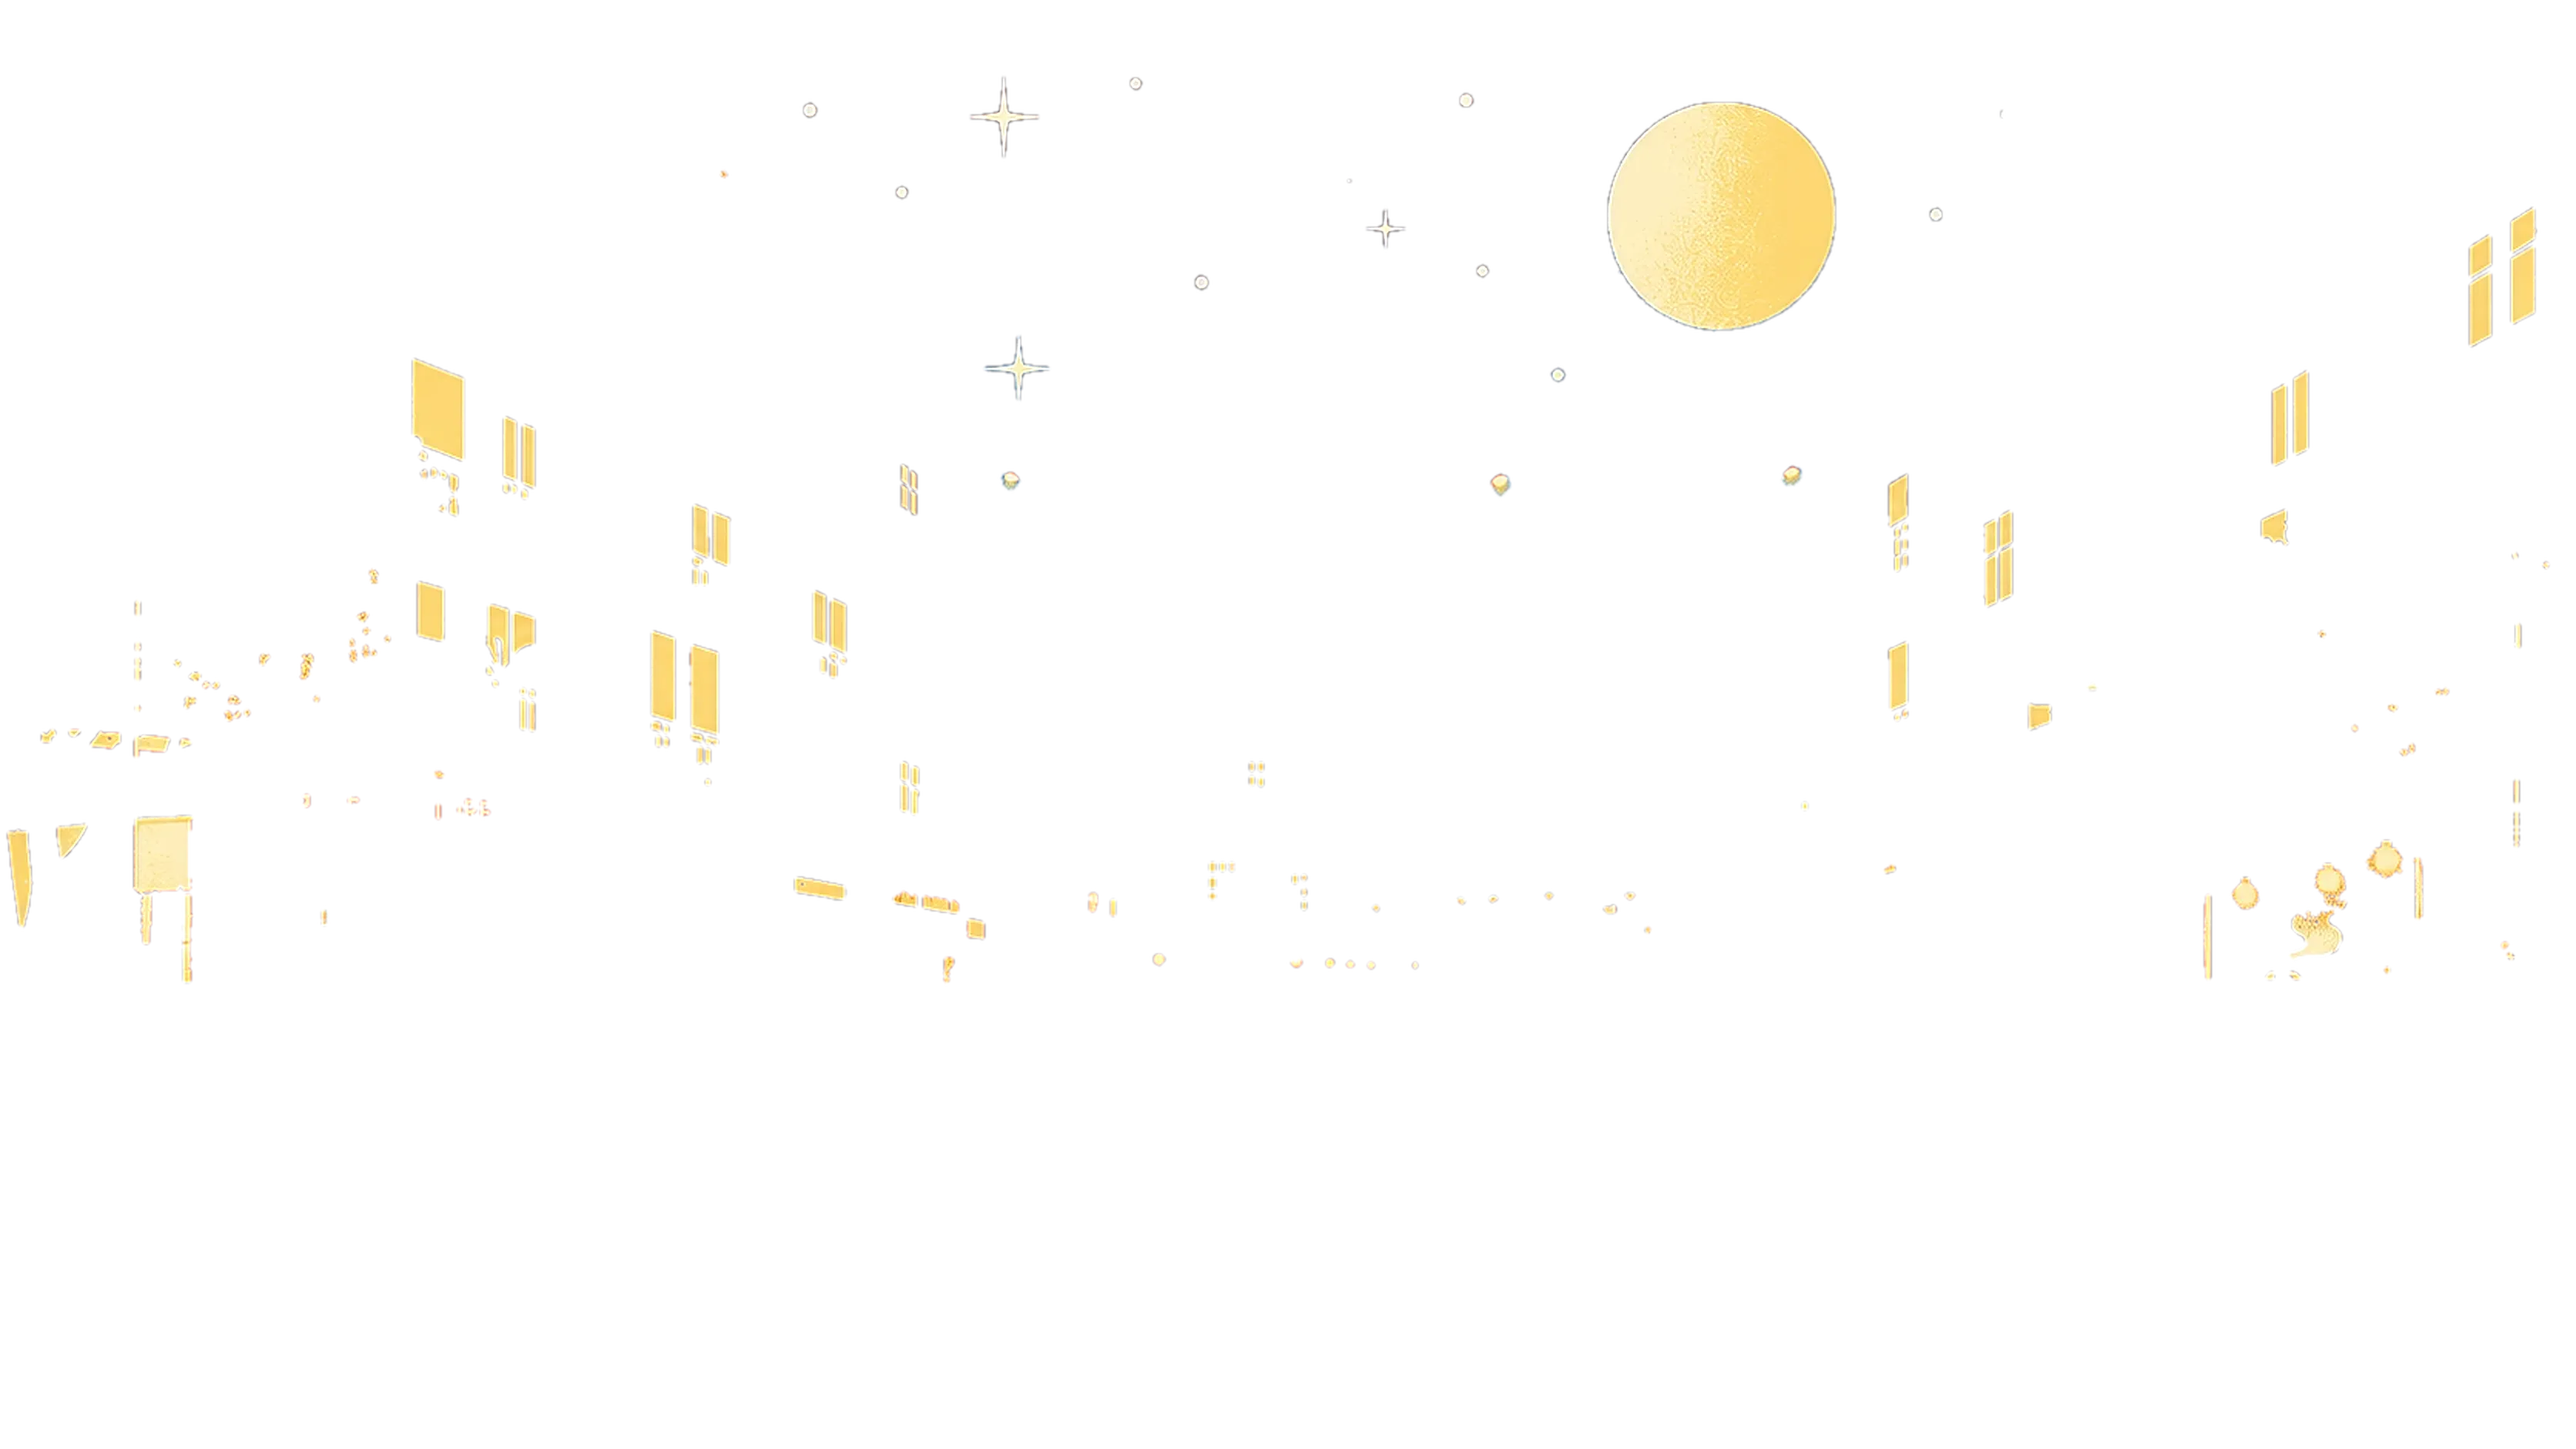
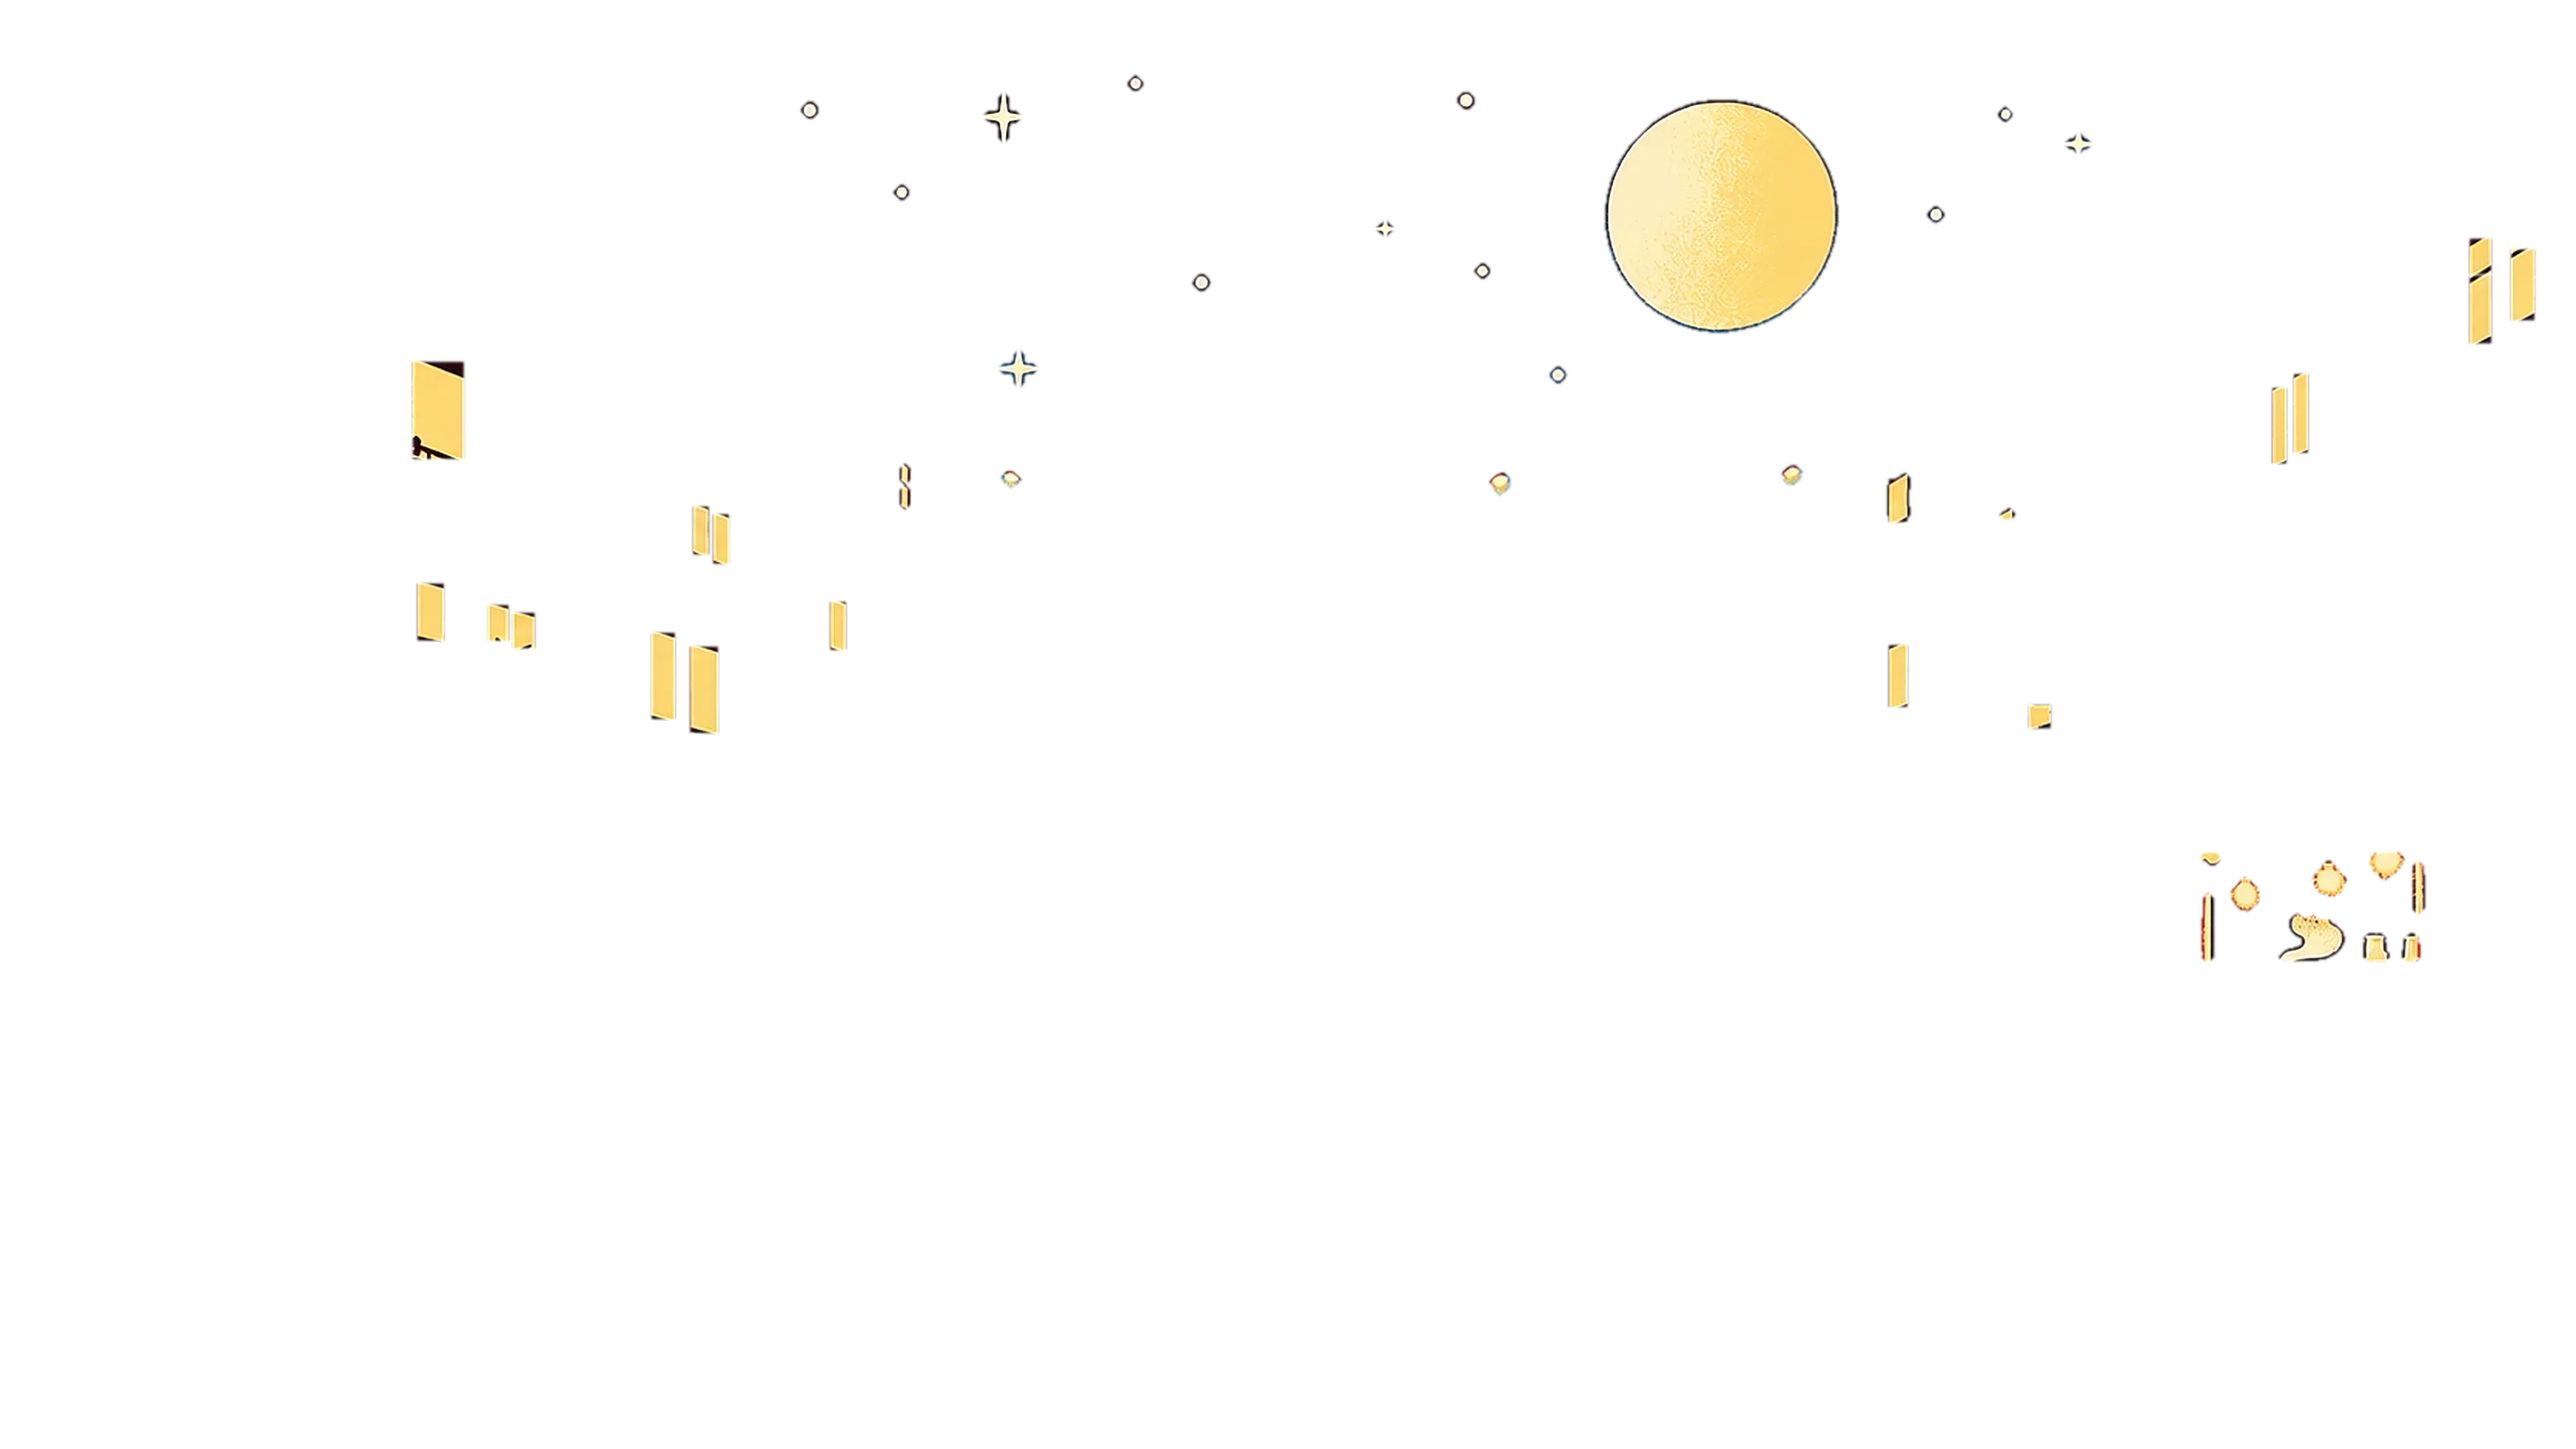
Hero dim: only whole lights stay lit
The lights kept bright over the dimmed street now include only clean, whole shapes:
rectangular upstairs windows, the overpass lamps, the chai stall's bulbs, the stars and
the moon. The stray specks in the lamp cones and trees and the half-lit shop fronts are
gone. Windows no longer blink off while the street is dimmed, which showed as a black box.

diff --git a/js/sprite.js b/js/sprite.js
@@ -14,7 +14,7 @@
     // below picks the frames that make two readable steps: stride, back leg lifting, legs passing,
     // reaching out again; then the same with the other arm forward.
     main: {
-      src: "assets/character/main.webp?v=1791142021", cols: 8,
+      src: "assets/character/main.webp?v=1791149090", cols: 8,
       anims: {
         idle: [0], walk: [3, 6, 1, 2, 8, 9, 13, 10],
         front: [14], front34: [15], back: [16], relaxed: [17], stride: [18], wave: [19], cheer: [20], sit: [21],
@@ -22,14 +22,14 @@
     },
     // the drop down the drain: looks down the manhole, steps off, falls, lands, fixes his glasses, grins
     drain: {
-      src: "assets/character/drain.webp?v=1791142021", cols: 8,
+      src: "assets/character/drain.webp?v=1791149090", cols: 8,
       anims: {
         peer: [0, 1, 2], stepoff: [3, 4, 5], fallStart: range(6, 11), fall: range(12, 23), fallEnd: [24, 25],
         land: range(26, 31), smile: [32], glasses: [33], stand: [34], grin: [35],
       },
     },
     // stairs: climbing (0-7) and coming down (8-15); picked by cell, see CLIMB in js/main.js
-    stairs: { src: "assets/character/stairs.webp?v=1791142021", cols: 8, anims: { climb: range(0, 7), descend: range(8, 15) } },
+    stairs: { src: "assets/character/stairs.webp?v=1791149090", cols: 8, anims: { climb: range(0, 7), descend: range(8, 15) } },
   };
   const FPS = { walk: 9, run: 13 };      // walk-cycle frames per second (run = scrolling fast)
   // he rises a little as his legs pass under him: lift per cycle frame, in box units (negative = up)

diff --git a/index.html b/index.html
@@ -10,7 +10,7 @@
   <link rel="preconnect" href="https://api.fontshare.com" />
   <link href="https://api.fontshare.com/v2/css?f[]=satoshi@400,500,700,900&display=swap" rel="stylesheet" />
   <link href="https://fonts.googleapis.com/css2?family=Hind:wght@500;700&family=Pixelify+Sans:wght@500;700&display=swap" rel="stylesheet" />
-  <link rel="stylesheet" href="styles.css?v=1791142021" />
+  <link rel="stylesheet" href="styles.css?v=1791149090" />
 </head>
 <body class="ride preloading" data-location="street">
   <!-- preloader: READY? SET... GO! -> logo -> pixel dissolve into the street (js/preloader.js) -->
@@ -38,7 +38,7 @@
     <canvas class="pl-blocks"></canvas>
     <p class="pl-skip">Click or press any key to skip</p>
   </div>
-  <script src="js/preloader.js?v=1791142021"></script>
+  <script src="js/preloader.js?v=1791149090"></script>
   <a class="skip-link" href="#subway">Skip to projects</a>
 
   <!-- HUD: menu, metro route map, skip toggle -->
@@ -268,8 +268,8 @@
   <!-- train wipe used when boarding a project -->
   <div class="train-wipe" aria-hidden="true"><div class="train-car"></div></div>
 
-  <script src="js/data.js?v=1791142021"></script>
-  <script src="js/sprite.js?v=1791142021"></script>
-  <script src="js/main.js?v=1791142021"></script>
+  <script src="js/data.js?v=1791149090"></script>
+  <script src="js/sprite.js?v=1791149090"></script>
+  <script src="js/main.js?v=1791149090"></script>
 </body>
 </html>

diff --git a/projects.html b/projects.html
@@ -10,8 +10,8 @@
   <link rel="preconnect" href="https://api.fontshare.com" />
   <link href="https://api.fontshare.com/v2/css?f[]=satoshi@400,500,700,900&display=swap" rel="stylesheet" />
   <link href="https://fonts.googleapis.com/css2?family=Hind:wght@500;700&display=swap" rel="stylesheet" />
-  <link rel="stylesheet" href="styles.css?v=1791142021" />
-  <link rel="stylesheet" href="project.css?v=1791142021" />
+  <link rel="stylesheet" href="styles.css?v=1791149090" />
+  <link rel="stylesheet" href="project.css?v=1791149090" />
 </head>
 <body class="project-page all-page" data-location="subway">
   <header class="hud">
@@ -34,7 +34,7 @@
 
   <div class="pixel-wipe" aria-hidden="true"></div>
 
-  <script src="js/data.js?v=1791142021"></script>
+  <script src="js/data.js?v=1791149090"></script>
   <script>
     (function () {
       const S = SITE, $ = (s) => document.querySelector(s);

diff --git a/project.html b/project.html
@@ -9,8 +9,8 @@
   <link rel="preconnect" href="https://api.fontshare.com" />
   <link href="https://api.fontshare.com/v2/css?f[]=satoshi@400,500,700,900&display=swap" rel="stylesheet" />
   <link href="https://fonts.googleapis.com/css2?family=Hind:wght@500;700&display=swap" rel="stylesheet" />
-  <link rel="stylesheet" href="styles.css?v=1791142021" />
-  <link rel="stylesheet" href="project.css?v=1791142021" />
+  <link rel="stylesheet" href="styles.css?v=1791149090" />
+  <link rel="stylesheet" href="project.css?v=1791149090" />
 </head>
 <body class="project-page" data-location="subway">
   <header class="hud">
@@ -46,7 +46,7 @@
 
   <div class="pixel-wipe" aria-hidden="true"></div>
 
-  <script src="js/data.js?v=1791142021"></script>
+  <script src="js/data.js?v=1791149090"></script>
   <script>
     (function () {
       const list = SITE.projects;

diff --git a/styles.css b/styles.css
@@ -482,7 +482,7 @@ body::after {
 @keyframes shoot { 0% { opacity: 0; translate: 0 0; } 15% { opacity: 1; } 100% { opacity: 0; translate: calc(-420px * var(--ss)) calc(187px * var(--ss)); } }
 /* windows go dark and light up again */
 .win-off { background: #2A1B45; mix-blend-mode: multiply; opacity: 0; transition: opacity 0.6s ease; }
-.win-off.off { opacity: 0.92; }
+.win-off.off { opacity: calc(0.92 * (1 - var(--e, 0))); }   /* (not while the street is dimmed for the title card: it would show as a black box) */
 /* overpass lamps glow; one has a loose connection */
 .lamp-glow { border-radius: 50%; background: radial-gradient(rgba(255, 224, 140, 0.85), rgba(255, 170, 60, 0.3) 42%, transparent 70%); mix-blend-mode: screen; animation: lamp-pulse 3.6s ease-in-out infinite; }
 .lamp-glow.flick { animation: lamp-flick 6s steps(1) infinite; }

diff --git a/js/main.js b/js/main.js
@@ -280,7 +280,7 @@
       LIFE.dots.map((d, i) => box("sky-dot", at(d, 12)).replace("<i ", `<i style="animation-delay:${-(i * 0.73) % 3}s" `)).join("")
       + LIFE.stars.map(([x, y, z], i) => box("sky-star", at([x, y], z)).replace("<i ", `<i style="animation-delay:${-i * 0.9}s" `)).join("")
       + box("shoot", [1200, 40, 150, 3])
-      + LIFE.windows.map((w) => box("win-off", [w[0] - 3, w[1] - 3, w[2] + 6, w[3] + 6])).join("")
+      + LIFE.windows.map((w) => box("win-off", w)).join("")
       + LIFE.lamps.map((l, i) => box("lamp-glow" + (i === 1 ? " flick" : ""), at(l, 46))).join("")
       + box("water", LIFE.water)
       + LIFE.beacons.map((b, i) => box("beacon", at(b, 8)).replace("<i ", `<i style="animation-delay:${-i * 0.6}s" `)).join("")

diff --git a/tools/build_street.py b/tools/build_street.py
@@ -94,22 +94,32 @@ posts[357 - TY0 + 1:374 - TY0 + 1, bx - 5:bx + 4] = [14, 10, 24, 255]
 Image.fromarray(posts.astype(np.uint8)).save(ROOT / "assets/street/posts.png", optimize=True)
 print("train", train.shape[1], "x", train.shape[0], "| track x", TX0, "y", TY0, "| posts box", [PX0, TY0 - 1, PX1 - PX0, posts.shape[0]])
 
-# the lights that stay on when the opening screen dims the street (assets/street/lights.png): lit windows,
-# the stars and the moon, lifted from the finished street
+# the lights that stay on when the opening screen dims the street (assets/street/lights.png): whole lit
+# windows, the overpass lamps, the chai stall's bulbs, the stars and the moon. Nothing partial: a window
+# counts only if it is a clean rectangle, and the lamp cones, the trees and the shop fronts are left out.
 o = np.clip(out, 0, 255)
 r, g, b = o[..., 0], o[..., 1], o[..., 2]
 keep = np.zeros(o.shape[:2], bool)
-warm = nd.binary_opening((r > 205) & (g > 150) & (b < 200) & (r - b > 45), iterations=1)      # window yellow (stippled lamp light doesn't survive the opening)
-lab, n = nd.label(warm)
+yellow = (r > 205) & (g > 150) & (b < 200) & (r - b > 45)
+lab, n = nd.label(nd.binary_opening(yellow, structure=np.ones((5, 5))))
 for i, sl in enumerate(nd.find_objects(lab)):
-    h, w = sl[0].stop - sl[0].start, sl[1].stop - sl[1].start
+    y0, y1, x0, x1 = sl[0].start, sl[0].stop, sl[1].start, sl[1].stop
+    h, w = y1 - y0, x1 - x0
     fill = (lab[sl] == i + 1).mean()
-    if sl[0].stop < 640 and 3 <= w <= 64 and 4 <= h <= 95 and fill > 0.55:
-        keep[sl] |= lab[sl] == i + 1
+    upstairs = y1 < 490 and not (60 < x0 < 300 and y0 > 255 and x0 < 250) and not (x0 > 1440 and y0 > 320)   # above the shops; not in a lamp's cone
+    if upstairs and 9 <= w <= 64 and 14 <= h <= 95 and fill > 0.8:
+        keep[y0:y1, x0:x1] = True                                   # the whole pane, frame bars and all
+round_lights = np.zeros_like(keep)
+round_lights[296:332, 640:1180] = True                              # the overpass lamps
+round_lights[556:622, 1430:1575] = True                             # the chai stall's bulbs
 sky = np.zeros_like(keep)
-sky[:335, 500:1300] = True                                                                      # the open sky between the rooftops
-pale = (r > 200) & (g > 190) & (b > 110) & sky
-keep |= nd.binary_dilation(pale, iterations=2) & sky & (r + g + b > 330)
+sky[:335, 500:1310] = True                                          # the open sky between the rooftops
+sky[60:128, 1318:1384] = True                                       # ...and the star above the right-hand hoarding
+pale = (r > 200) & (g > 185) & (b > 100)
+glow = nd.binary_opening(pale, iterations=1)
+lab, n = nd.label(glow & (sky | round_lights))
+size = nd.sum(glow & (sky | round_lights), lab, range(1, n + 1))
+keep |= nd.binary_dilation(np.isin(lab, [i + 1 for i in range(n) if size[i] >= 12]), iterations=2)
 al = nd.gaussian_filter(keep.astype(float), 0.8)
 Image.fromarray(np.dstack([o, np.clip(al * 255, 0, 255)]).astype(np.uint8)).save(ROOT / "assets/street/lights.png", optimize=True)
 
